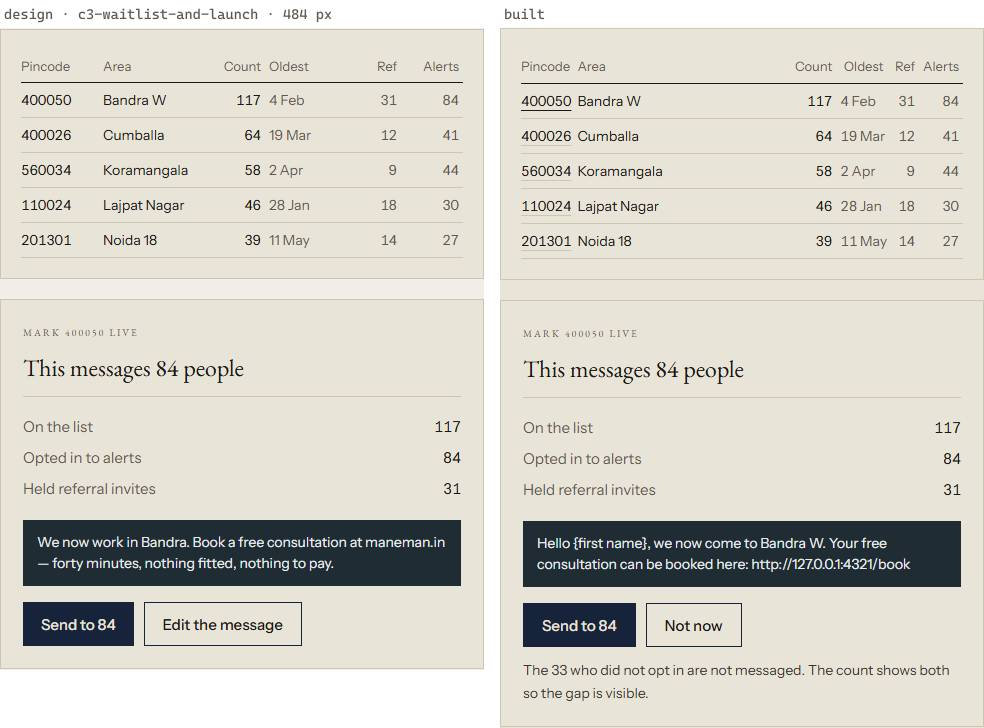
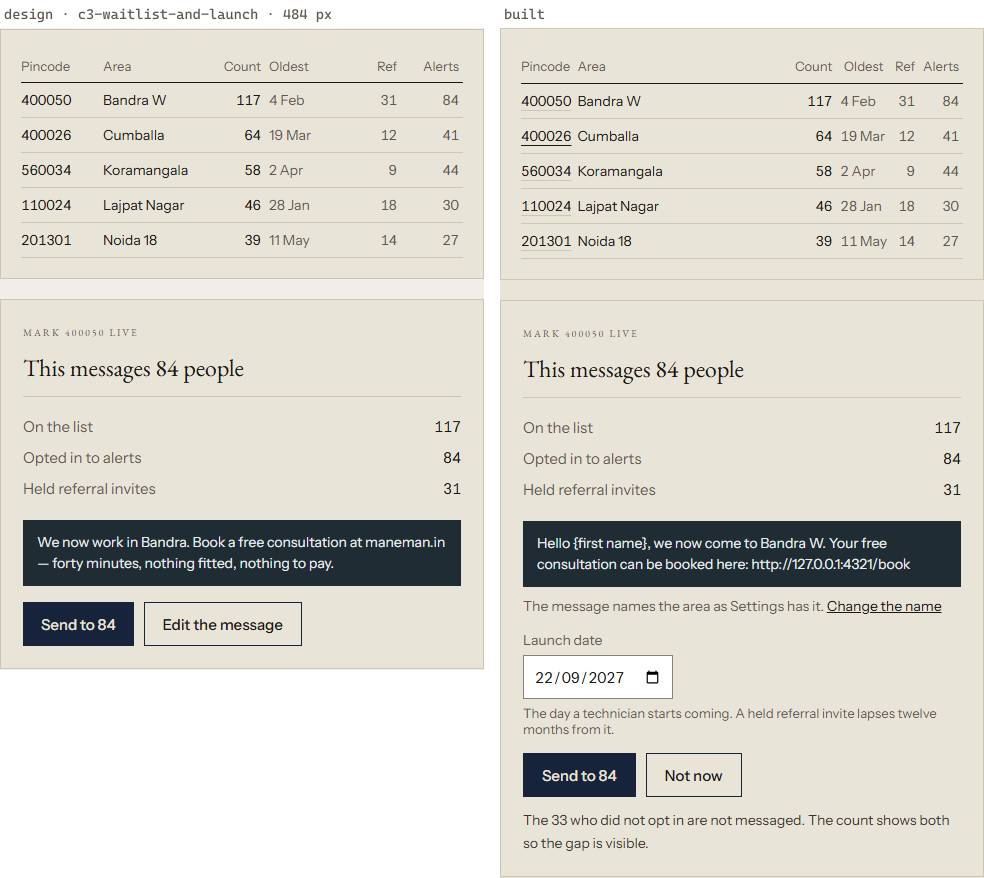
The ops fidelity pairs show the header, the launch panel and the roster as they now are
npm run fidelity:ops regenerated: A1 and B1 carry the centred title and who
is signed in, C3 the launch panel's area line and launch date, D3 the Leave
heading in the boards' label. The harness answers /api/whoami with the
member of staff whose initials board A1 draws; the new differences are
recorded in docs/fidelity-method.md.

diff --git a/docs/fidelity-method.md b/docs/fidelity-method.md
@@ -208,7 +208,8 @@ These differences are known and stand:
 | C2   | No "Sent" column                                                                                                                                                                                             | Nothing counts invitations sent: a code is shared by the client, not by us (ADR 0048)                                                                                                                                                                                                                                                                                                                    |
 | C2   | The busiest referrer first                                                                                                                                                                                   | `GET /api/referrers` orders them by fits; the board lists its rows in no order                                                                                                                                                                                                                                                                                                                           |
 | C3   | The pincode is the control, underlined, where the board draws no way in                                                                                                                                      | The panel that follows has to be opened by something, and the board's six columns leave no room for a button                                                                                                                                                                                                                                                                                             |
-| C3   | A pincode we already come to says "Live" beside its area, and offers no launch                                                                                                                               | The route returns served pincodes that still have people waiting; the board draws only those waiting                                                                                                                                                                                                                                                                                                     |
+| C3   | A pincode we already come to says "Live" beside its area; choosing it tells whoever there is still untold                                                                                                    | The route returns served pincodes that still have people waiting, and one served before Settings launched what it served left its waitlist untold (ADR 0071); the board draws only those waiting                                                                                                                                                                                                         |
+| C3   | Beneath the message, "The message names the area as Settings has it" with a link there, and a Launch date box                                                                                                | The area's name is ops' to give (ADR 0071), and the launch has always taken the day a technician starts; the board draws neither                                                                                                                                                                                                                                                                         |
 | C3   | The message is `launch_alert_v1` (src/config/message-templates.ts), with the first name a placeholder                                                                                                        | It is what the queue will actually send; the name is each person's own                                                                                                                                                                                                                                                                                                                                   |
 | C3   | "Not now" where the board has "Edit the message"                                                                                                                                                             | The message is a template in the repository, not something the console can rewrite                                                                                                                                                                                                                                                                                                                       |
 | C3   | The note about the 33 who did not opt in sits inside the panel                                                                                                                                               | The board draws it as a caption beneath the frame; it is the reason both counts are shown, so it stays with them                                                                                                                                                                                                                                                                                         |
@@ -234,6 +235,7 @@ These differences are known and stand:
 | D3   | An average of fewer jobs than were finished says so, "30 of 34"                                                                                                                                              | The average is of the jobs the phone timed from Start to the outcome, which is not always every job FSM completed                                                                                                                                                                                                                                                                                        |
 | D3   | Each technician's phones on the row beneath his name, with a revoke                                                                                                                                          | Device revocation belongs to this board (ADR 0025, item 17); its five columns leave no room for a phone                                                                                                                                                                                                                                                                                                  |
 | D3   | A Leave block beneath each technician's phones, with what they are down for and a form to record more                                                                                                        | The board draws no leave anywhere. FSM has nowhere to keep it, so ops record it here, and the dispatch board reads the same rows (ADR 0062)                                                                                                                                                                                                                                                              |
+| D3   | "Leave" in the boards' small-caps label, named "Leave for" the technician to a screen reader                                                                                                                 | The roster repeats it on every row, so each heading says whose it is (A11Y-22)                                                                                                                                                                                                                                                                                                                           |
 | D3   | A revoke asks before it sends, and says what it does                                                                                                                                                         | It ends a session and makes the phone drop its cached jobs; the board draws no revoke at all                                                                                                                                                                                                                                                                                                             |
 | D3   | The note names the period counted and says no skill is recorded, where the board's reads its own averages                                                                                                    | The board names no period, so the one the route counted has to be lettered; and a column that is not drawn has to say why                                                                                                                                                                                                                                                                                |
 
